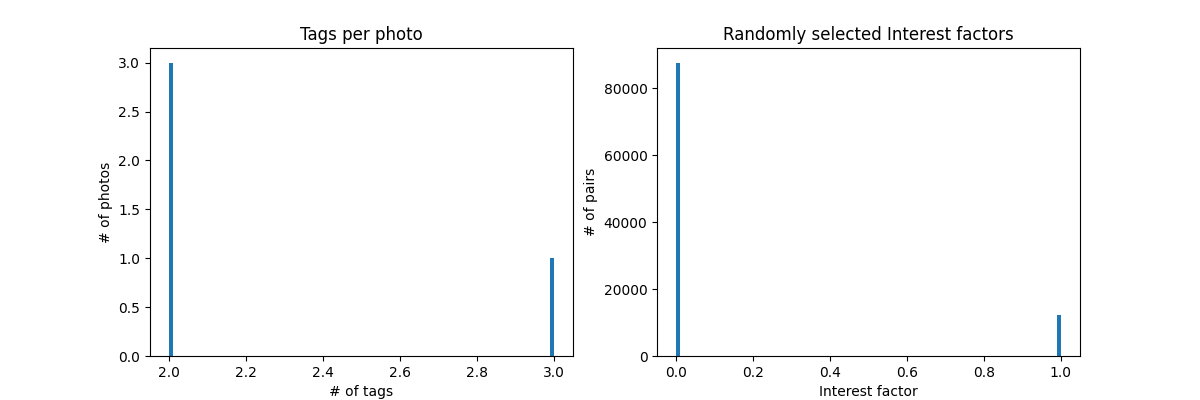
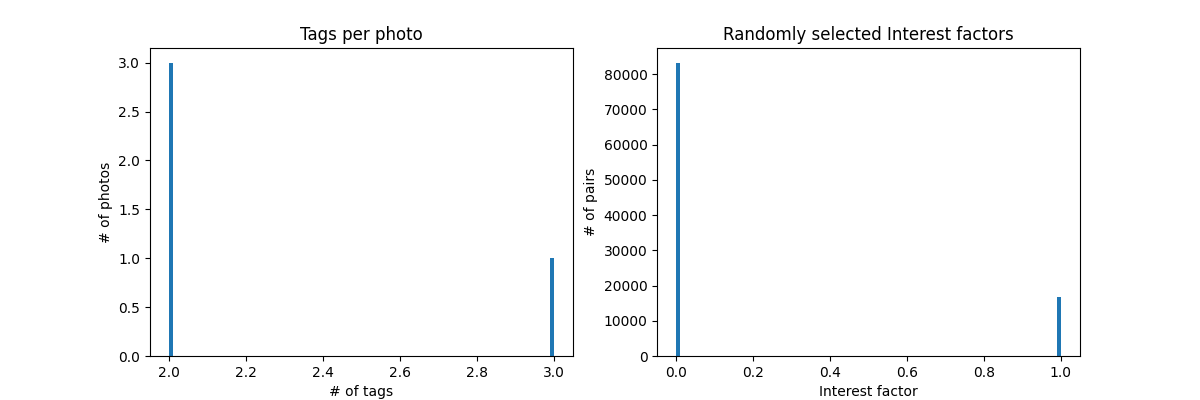
Added interest analysis

diff --git a/analysis.py b/analysis.py
@@ -29,10 +29,13 @@ if __name__ == '__main__':
         rng = np.random.default_rng()
         interests = []
         for _ in range(100000):
-            tag_set1 = set(tags_list[rng.choice(num_photos)])
-            tag_set2 = set(tags_list[rng.choice(num_photos)])
+            indices = rng.choice(num_photos, size=2, replace=False)
+            tag_set1 = set(tags_list[indices[0]])
+            tag_set2 = set(tags_list[indices[1]])
             interest = min(len(tag_set1.difference(tag_set2)), len(tag_set2.difference(tag_set1)), len(tag_set1.intersection(tag_set2)))
             interests.append(interest)
+
+        print(f"Nonzero interest: {sum(i > 0 for i in interests)} out of 100,000")
 
         plt.subplot(1, 2, 2)
         plt.title('Randomly selected Interest factors')
